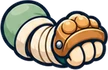
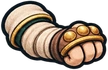
Repaint the Monk and lower the two sword guards

diff --git a/src/render/heroRig.js b/src/render/heroRig.js
@@ -15,8 +15,8 @@ export const HERO_RIG_CLASSES = ['swordsman', 'rogue', 'samurai', 'corsair', 'pa
 // pivot inside the picture). All in game units, feet on the ground at y = 15.
 const PLACED = {
   // The Monk's knuckled fist leads while the open palm guards the far side.
-  monk: { body: [-19, -38, 38.1, 46], left: [-7.5, 2.7, 8, 12.3], right: [0.4, 2, 9, 13],
-    sword: [8.5, -13.5, 18.5, 13.7, 3, 4.3], back: [-5.8, -13.5, 19.4, 12.3, 16.05, 5.57], strike: [8.8, -14.25, 20.9, 9.4, 3.42, 3.87] },
+  monk: { body: [-19, -38, 38.1, 46], left: [-12.2, 1.1, 11, 13.9], right: [1.5, 0.65, 11.5, 14.35],
+    sword: [10.5, -9.3, 16, 12.8, 3.5, 4.4], back: [-6, -9.5, 16, 10.2, 13.4, 6.4], strike: [10.6, -9.9, 19.6, 9.2, 3.85, 3.2] },
 };
 // Heavier weapons commit later; spears extend forward and whips sweep wider.
 const ATTACKS = {
@@ -46,21 +46,21 @@ const GRIP = {
 // Where the weapon arm's shoulder is (the painted attack arms hang from it),
 // and the off hand's for the dual wielders' second set.
 const SHOULDER = {
-  rogue: [15, -8], brawler: [14, -9], monk: [8.5, -13.5],
+  rogue: [15, -8], brawler: [14, -9], monk: [10.5, -9.3],
   merchant: [13, -6.8], lancer: [13, -8.5], halberdier: [13, -9],
   swordsman: [8.5, -9], corsair: [12, -8.2],
 };
 // (The Monk's palm strikes from its own back shoulder, so the thrust carries across the body.)
-const OFF_SHOULDER = { corsair: [-11.6, -8], rogue: [-11, -9], monk: [-5.8, -13.5] };
+const OFF_SHOULDER = { corsair: [-9.6, -7.2], rogue: [-11, -9], monk: [-6, -9.5] };
 // The upright polearms and cane lean out of the mascot's eyeline in guard.
 const GUARD_TURN = { samurai: 0.25, lancer: 0.62, halberdier: 0.74, merchant: 0.49 };
 // The rest art hangs from its painted cuff, some way below its original
 // raised blade. Size, cuff x/y and angle use the same shoulder as the swing.
 const DUELLIST_BLADE = {
-  swordsman: [23, 42, 19.2, 37, 1.65, -0.31],
-  corsair: [24.4, 32, 21.4, 28.2, 1.76, -0.36],
+  swordsman: [23, 42, 19.2, 37, 2.34, 0.38],
+  corsair: [32, 14.5, 3.9, 7.1, 0.23, 0.04],
 };
-const CORSAIR_OFF_BLADE = [21.4, 28, 18.8, 24.7, -2.15, -3.17];
+const CORSAIR_OFF_BLADE = [25.5, 11.7, 3.1, 5.7, -0.39, -3.34];
 // Shoulder, size and cuff pivot of the Swordsman's painted arm and buckler.
 const BUCKLER = [-9.7, -8, 20, 18, 16, 4.3];
 const images = new Map();
@@ -283,7 +283,7 @@ export function drawHeroRig(ctx, opts = {}) {
     const [bw, bh, bpx, bpy, turn] = CORSAIR_OFF_BLADE;
     // Mirror the far cuff so both scimitars sit in hands on opposite sides
     // of the coat. The far blade angles away while the near one leads.
-    drawIf('sword', osh[0], osh[1] + pose.breathe, bw, bh, turn - pose.back * 0.55, bpx, bpy, (1 - shown2) * arms, true);
+    drawIf('strike', osh[0], osh[1] + pose.breathe, bw, bh, turn - pose.back * 0.55, bpx, bpy, (1 - shown2) * arms, true);
     drawIf('strike', osh[0] + (pose.reach2 || 0), osh[1] + pose.breathe, 34, 15, (pose.back + 1.5) * -0.18, 4.6, 5.1, shown2 * arms);
   } else if (pairedWeapon) {
     drawIf('sword', -9, -10 + pose.breathe, 21, 38, -pose.back * 0.8 - 0.55, 21 * 0.83, 38 * 0.88, (1 - shown2) * arms);
@@ -338,7 +338,7 @@ export function drawHeroRig(ctx, opts = {}) {
     draw('sword', a[0], a[1] + pose.breathe, a[2], a[3], pose.sword + chamber * 0.9, a[4], a[5], (1 - shown) * arms);
     draw('strike', k[0] + reach, k[1] + pose.breathe, k[2], k[3], (pose.sword - 0.8) * 0.3, k[4], k[5], shown * arms);
   } else {
-    draw('sword', x, y, w, h, sa, spx, spy, (1 - shown) * arms);
+    draw(corsair ? 'strike' : 'sword', x, y, w, h, sa, spx, spy, (1 - shown) * arms);
     draw('strike', x + reach, y, kw, kh, ka, 4, 5, shown * arms);
     if (hand) drawGripHand(ctx, classId, 'fist', 0, 0, hand[0], hand[1], arms);
   }

diff --git a/src/render/heroAnimArt.js b/src/render/heroAnimArt.js
@@ -49,7 +49,7 @@ export const ANIM_ART = {
   pistoler: { faces: ['body', 'hurt', 'blink', 'victory'], swing: { wind: [19.3, 19.8, 2.9, 16.9], mid: [24.5, 12.5, 2.5, 9.2], follow: [24.5, 17, 2.8, 13.8] }, back: { body: [-11.7, -37.6, 23.2, 43.2], arm: [-8.3, -25.9, 25, 31.2], strike: [-35.3, -11.9, 35.3, 18.5] }, hand: [10.3, 12.5, 2, 1.5, 7.9, 10.8] },
   sniper: { faces: ['body', 'hurt', 'blink', 'victory'], swing: { wind: [31.5, 26.7, 3.8, 21.8], mid: [34.8, 14.3, 4.1, 9.1], follow: [36.5, 24.5, 4.3, 19] }, back: { body: [-11.9, -37.6, 23.7, 43.2], other: [-3.3, -10.5, 18.3, 14.3, 1.7, 4.1, 16, 7.7], arm: [-29.5, -21.2, 36.7, 18], strike: [-37, -21.2, 45, 18] }, hand: [10.8, 12.3, 1.9, 1.6, 8.3, 10.6] },
   // The Monk (redrawn, sheets MK-b and MK-c), Priest and Zealot (art pack 2-New-Classes, sheets H8b and H9b).
-  monk: { faces: ['body', 'hurt', 'blink', 'victory'], swing: { wind: [14.2, 13.9, 4, 3.2], mid: [17.9, 11.6, 2.9, 4.4], follow: [23.3, 13.9, 3.9, 4.6] }, off: { wind: [18.5, 17, 3.9, 3.6], mid: [22.4, 15.7, 3.7, 8], follow: [31, 13, 5.2, 7.4] }, back: { body: [-8.7, -37.7, 17.4, 45.4], other: [-6.4, -16.8, 15.5, 17.3, 11.9, 3.5, 4.2, 13.5], arm: [7, -17.4, 16.2, 11.8], strike: [6.2, -20.5, 21.2, 11.4] }, backFeet: [-7.9, 0.1, 8.2], hand: [19, 14.6, 3.7, 3.6, 15.7, 8.7] },
+  monk: { faces: ['body', 'hurt', 'blink', 'victory'], swing: { wind: [14.2, 13.9, 4, 3.2], mid: [17.9, 11.6, 2.9, 4.4], follow: [23.3, 13.9, 3.9, 4.6] }, off: { wind: [18.5, 17, 3.9, 3.6], mid: [22.4, 15.7, 3.7, 8], follow: [31, 13, 5.2, 7.4] }, back: { body: [-13.3, -37.7, 34.4, 45.4], other: [-7.3, -11.2, 13.3, 14.8, 10.5, 3.1, 3.56, 11.52], arm: [7.1, -14.5, 14.8, 10.5], strike: [6.1, -17.5, 19.6, 10.1] }, backFeet: [-11.3, 1.7, 10], hand: [19, 14.6, 3.7, 3.6, 15.7, 8.7] },
   priest: { faces: ['body', 'hurt', 'blink', 'victory'], swing: { wind: [18.6, 24.5, 3.2, 17.3], mid: [19.7, 21.2, 3.3, 13], follow: [22.7, 19.7, 3.8, 10] }, back: { body: [-19.2, -39.7, 38.4, 49.9], other: [-9.4, -8, 15.7, 17.7, 12.2, 3.3, 3.7, 12.4], arm: [10.5, -26.7, 16.1, 18.1], strike: [10.7, -25.1, 19.9, 17.8] }, hand: [18, 16, 3.1, 6.8, 14.8, 3] },
   zealot: { faces: ['body', 'hurt', 'blink', 'victory'], swing: { wind: [19.6, 16.9, 3.2, 10.2], mid: [21.4, 18.3, 3.5, 6], follow: [24.2, 10.5, 4, 5.9] }, back: { body: [-16.9, -41.4, 33.9, 51.4], other: [-9.9, -8.6, 14.4, 18.4, 10.8, 3.6, 3.5, 14.8], arm: [11.5, -22, 20.8, 22.8], strike: [11.4, -14.9, 22.6, 9] }, hand: [17.1, 15.3, 3.4, 10.5, 14.1, 4.2] },
 };

diff --git a/src/render/heroanim.js b/src/render/heroanim.js
@@ -1323,8 +1323,8 @@ function star(c, x, y, r, k) {
 // from the usual shoulders sat inside the chest and vanished into it, leaving
 // two empty sleeves. His hang from the sleeve ends instead, and the back one is
 // drawn over the body, as his own rig arms are (see armInFront).
-// The Monk's tool grips use the same narrow shoulders as its fighting rig.
-const SKILL_SHOULDER = { brawler: [13, -13, -1], monk: [8.5, -5.8, -2.5] };
+// The Monk's tool grips follow the mantle openings of its fighting rig.
+const SKILL_SHOULDER = { brawler: [13, -13, -1], monk: [10.5, -6, 1.7] };
 /** Whether a class's back life-skill arm is drawn over its body, not behind it. */
 export const armInFront = (jobClass) => !!SKILL_SHOULDER[jobClass];
 /** The life-skill arms for a painted rig: the back one before the body (after
